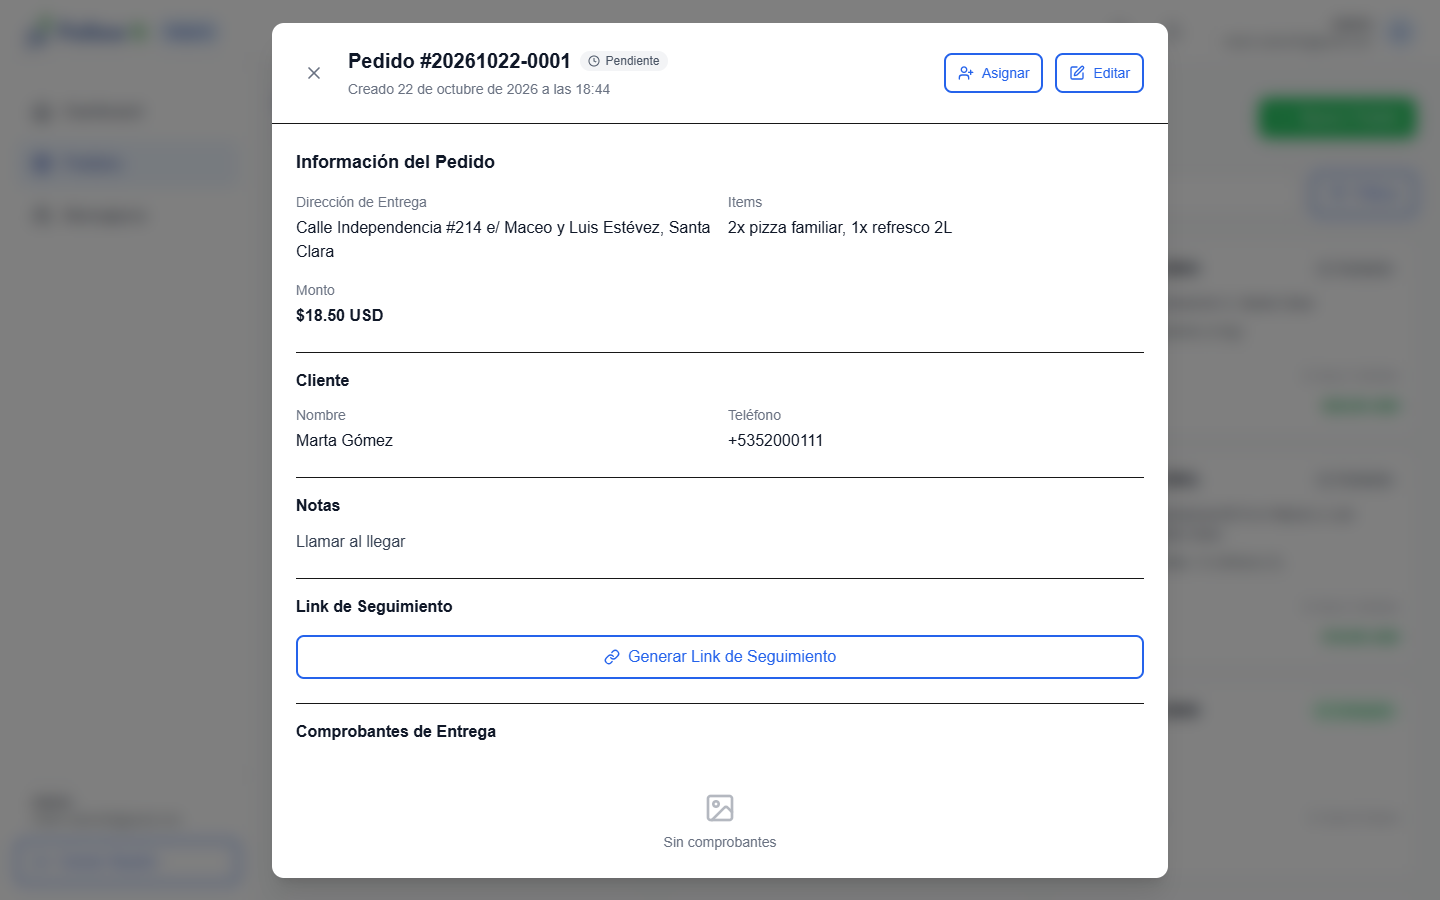
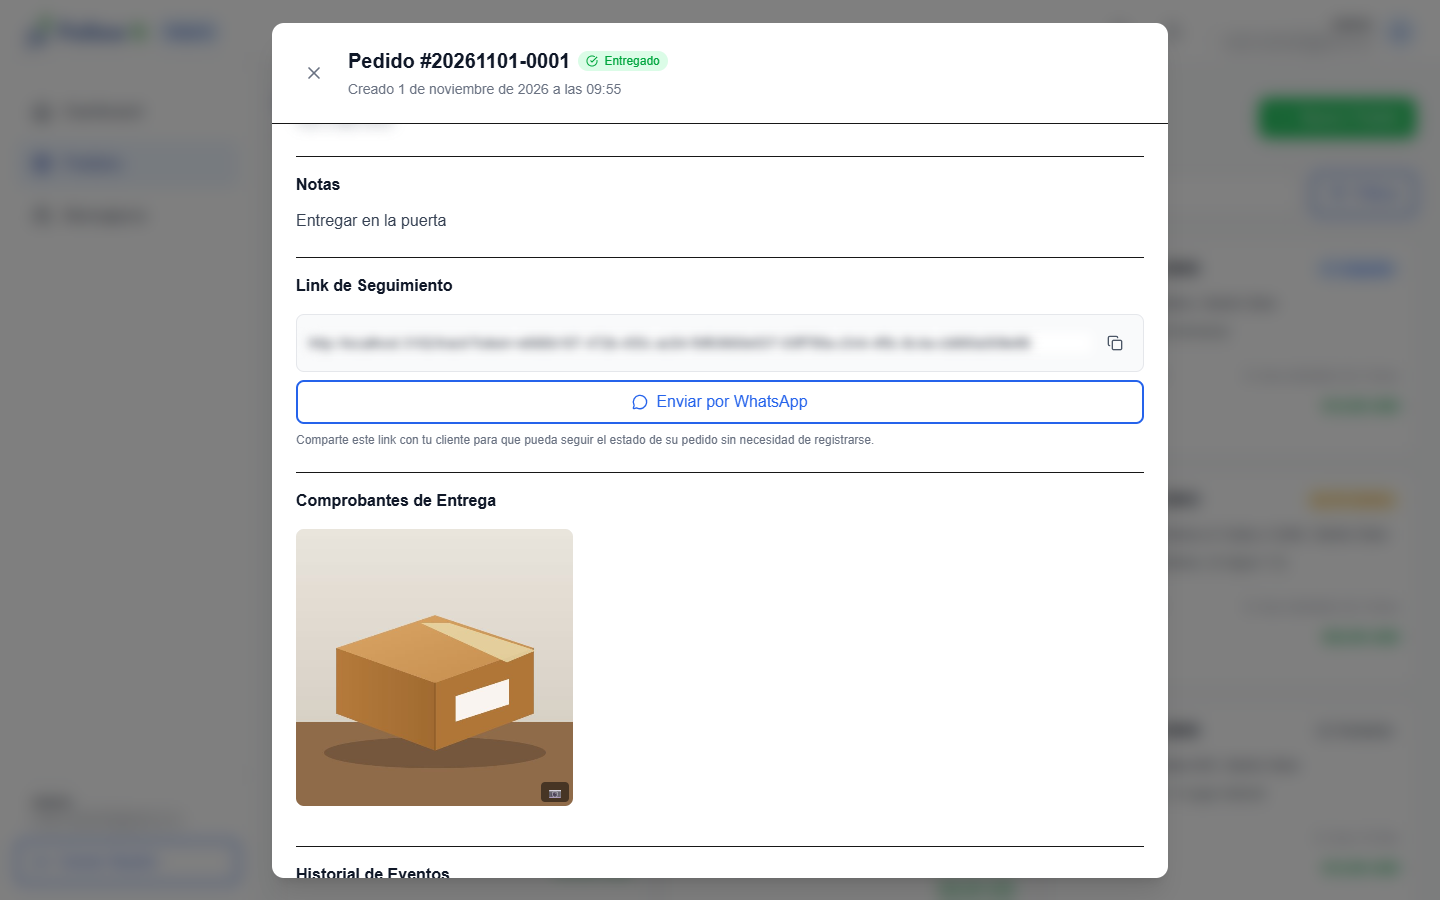
Add real screenshots to the project pages and drop the misleading ones
- New screens from the demo accounts for Kshop, LensSpace, Turno Flash, Turnia, Follow It and Self Inspection (sample data removed afterwards)
- Follow It captures no longer show a personal email; Turnia login/home/dashboard (made-up figures) removed
- Gallery order and ES/EN captions updated to match

diff --git a/src/content/projects.es.ts b/src/content/projects.es.ts
@@ -91,11 +91,13 @@ export const PROJECTS_ES: Project[] = [
       "kshop",
       [
         ["landing", "Página de Kshop para abrir una tienda"],
+        ["pricing", "Planes Caja, Base y Pro, con pago en efectivo y sin tarjeta"],
         ["home", "Portada de una tienda con el tema Kshop"],
         ["product", "Ficha con tallas, colores, oferta y precio en otra moneda"],
         ["theme-dark", "La misma tienda con el tema Oscuro"],
         ["theme-warm", "La misma tienda con el tema Cálido"],
         ["admin-home", "Inicio del panel: ventas de hoy, por cobrar, pedidos por confirmar y poco stock"],
+        ["finance", "Finanzas: vendido, cobrado, margen, gastos, ganancia neta y cierre del día"],
         ["product-editor", "Variantes con precio, costo, margen y calculadora de precio"],
         ["order-detail", "Un pedido con oferta aplicada, envío, pago y aviso por WhatsApp al cliente"],
         ["excel-import", "Importar y exportar el catálogo desde Excel"],
@@ -103,7 +105,7 @@ export const PROJECTS_ES: Project[] = [
         ["admin-appearance", "Apariencia: estilo, colores y vista previa en vivo"],
       ],
       [
-        ["pos", "Caja en el teléfono: ticket con producto y botón «Cobrar»"],
+        ["pos-sell", "Caja en el teléfono: ticket con varios productos y botón «Cobrar»"],
         ["home", "Tienda en el móvil"],
         ["product", "Producto añadido al carrito, con pedido por WhatsApp"],
         ["cart", "Carrito con cupón y envío gratis"],
@@ -193,6 +195,7 @@ export const PROJECTS_ES: Project[] = [
         ["dashboard", "Panel principal con el resumen del día"],
         ["sale", "Nueva venta con el total en CUP y USD"],
         ["orders", "Pedidos y cobros"],
+        ["order-detail", "Detalle de un pedido: saldo, producción y la cronología de cada acción"],
         ["prescriptions", "Historial de recetas"],
         ["production", "Producción con proveedores"],
         ["cash-register", "Caja y cierres"],
@@ -202,6 +205,7 @@ export const PROJECTS_ES: Project[] = [
       [
         ["dashboard", "Panel en el móvil"],
         ["orders", "Pedidos en el móvil"],
+        ["order-detail", "Detalle de un pedido en el móvil"],
         ["production", "Producción en el móvil"],
       ],
     ),
@@ -285,9 +289,14 @@ export const PROJECTS_ES: Project[] = [
       "turnoflash",
       [
         ["dashboard", "Resumen del día"],
-        ["public-booking", "Página pública de reservas"],
+        ["booking-categories", "Reserva pública: el cliente elige qué le interesa"],
+        ["booking-services", "Servicios de una categoría, con el anticipo que pides"],
         ["schedule-week", "Agenda semanal"],
+        ["deposits", "Turno con anticipo verificado y pagos parciales"],
+        ["refunds", "Cancelación con devolución del anticipo, motivo y quién la registró"],
         ["reminders", "Recordatorios por WhatsApp"],
+        ["win-back", "Recuperar clientes que hace tiempo no vienen, con un clic"],
+        ["reports", "Reportes: ingresos, turnos, valoraciones y servicios más pedidos"],
         ["trip-detail", "Salida con reservas de pasajes"],
         ["public-trips", "Página pública de salidas"],
         ["services", "Servicios y precios"],
@@ -296,6 +305,9 @@ export const PROJECTS_ES: Project[] = [
         ["dashboard", "Panel en el móvil"],
         ["schedule", "Agenda en el móvil"],
         ["public-booking", "Reserva pública en el móvil"],
+        ["booking-categories", "Categorías de reserva en el móvil"],
+        ["win-back", "Recuperar clientes en el móvil"],
+        ["reports", "Reportes en el móvil"],
       ],
     ),
     mockup: { kind: "mobile", accent: "#F2B705", background: "#17132A", text: "#FFFFFF" },
@@ -374,13 +386,18 @@ export const PROJECTS_ES: Project[] = [
     screenshots: buildScreenshots(
       "turnia",
       [
-        ["calendar", "Calendario de turnos"],
-        ["dashboard", "Panel de administración"],
-        ["statistics", "Estadísticas"],
+        ["calendar", "Calendario del mes con todos los turnos, turnos sin asignar y cobertura"],
+        ["requests", "Bandeja de solicitudes del gestor: ceder, intercambiar y tomar turnos abiertos"],
+        ["open-shifts", "Turnos abiertos a los que el personal puede postularse"],
+        ["availability", "Vacaciones, licencias y capacitación del equipo"],
+        ["conflict", "Aviso de conflicto al asignar a alguien que está de vacaciones"],
+        ["shift-types", "Tipos de turno con su letra, color y horario"],
+        ["daily-schedule", "Agenda del día en línea de tiempo"],
+        ["statistics", "Estadísticas de horas por persona y tipo de turno"],
       ],
       [
         ["calendar", "Turnos en el móvil"],
-        ["dashboard", "Panel en el móvil"],
+        ["requests", "Solicitudes de cambio de turno en el móvil"],
       ],
     ),
     mockup: { kind: "dashboard", accent: "#5B21B6", background: "#EFEAFB", text: "#17132A" },
@@ -447,12 +464,20 @@ export const PROJECTS_ES: Project[] = [
     ],
     result: null,
     technologies: ["Next.js", "Supabase", "Capacitor"],
-    cover: null,
+    cover: "/sites/followit-dashboard.png",
     screenshots: buildScreenshots(
       "followit",
-      [],
       [
-        ["orders", "Pedidos en el móvil"],
+        ["dashboard", "Resumen del día y pedidos que requieren atención"],
+        ["map", "Mensajeros en tiempo real sobre el mapa"],
+        ["orders", "Lista de pedidos en distintos estados"],
+        ["order-detail", "Pedido entregado con enlace de seguimiento y foto de comprobante"],
+        ["assign", "Asignar un pedido a un mensajero"],
+      ],
+      [
+        ["tracking", "Seguimiento del cliente con estado y mensajero en el mapa, sin registrarse"],
+        ["courier", "App del mensajero: marcar entregado, fallido o tomar la foto"],
+        ["orders", "Pedidos en el móvil del negocio"],
       ],
     ),
     mockup: { kind: "mobile", accent: "#F2B705", background: "#5B21B6", text: "#FFFFFF" },
@@ -606,15 +631,17 @@ export const PROJECTS_ES: Project[] = [
       "selfinspection",
       [
         ["evaluations", "Evaluaciones y ranking de inspectores"],
+        ["ranking", "Ranking de inspectores con puntuación y calificación"],
+        ["headers", "Editor de checklists a medida: encabezados y preguntas por tipo de inspección"],
         ["inspections", "Listado de inspecciones con filtros"],
-        ["home", "Inicio con el resumen de una inspección"],
         ["types", "Tipos de inspección configurables"],
         ["users", "Gestión del equipo por rol"],
       ],
       [
         ["inspections", "Inspecciones en el móvil"],
         ["evaluations", "Evaluaciones en el móvil"],
-        ["home", "Inicio en el móvil"],
+        ["ranking", "Ranking de inspectores en el móvil"],
+        ["create", "Formulario de nueva inspección en el móvil"],
       ],
     ),
     mockup: { kind: "mobile", accent: "#F2B705", background: "#EFEAFB", text: "#17132A" },

diff --git a/src/content/projects.en.ts b/src/content/projects.en.ts
@@ -79,17 +79,19 @@ export const PROJECTS_EN_COPY: Record<string, ProjectCopy> = {
     result: null,
     alts: [
       "Kshop page to open a store",
+      "Caja, Base and Pro plans, paid in cash with no card",
       "A store's home page with the Kshop theme",
       "Product page with sizes, colors, an offer and the price in another currency",
       "The same store with the Dark theme",
       "The same store with the Warm theme",
       "Dashboard home: today's sales, pending payments, orders to confirm and low stock",
+      "Finance: sold, collected, margin, expenses, net profit and the day close",
       "Variants with price, cost, margin and the price calculator",
       "An order with an offer applied, shipping, payment and a WhatsApp notice to the customer",
       "Importing and exporting the catalog from Excel",
       "WhatsApp notices for each order status, with editable text",
       "Appearance: style, colors and live preview",
-      "Register on the phone: ticket with a product and the \"Charge\" button",
+      "Register on the phone: ticket with several products and the \"Charge\" button",
       "Store on mobile",
       "Product added to the cart, with a WhatsApp order",
       "Cart with a coupon and free shipping",
@@ -171,6 +173,7 @@ export const PROJECTS_EN_COPY: Record<string, ProjectCopy> = {
       "Main dashboard with the day's summary",
       "New sale with the total in CUP and USD",
       "Orders and payments",
+      "Order detail: balance, production and the timeline of every action",
       "Prescription history",
       "Production with suppliers",
       "Cash register and closings",
@@ -178,6 +181,7 @@ export const PROJECTS_EN_COPY: Record<string, ProjectCopy> = {
       "Customer records",
       "Dashboard on mobile",
       "Orders on mobile",
+      "Order detail on mobile",
       "Production on mobile",
     ],
   },
@@ -253,15 +257,23 @@ export const PROJECTS_EN_COPY: Record<string, ProjectCopy> = {
     result: null,
     alts: [
       "Summary of the day",
-      "Public booking page",
+      "Public booking: customers choose what they are interested in",
+      "Services in a category, with the deposit you ask for",
       "Weekly schedule",
+      "Appointment with a verified deposit and partial payments",
+      "Cancellation with a refunded deposit, the reason and who logged it",
       "WhatsApp reminders",
+      "Win back customers who haven't come in a while, in one click",
+      "Reports: revenue, appointments, ratings and most requested services",
       "Departure with trip bookings",
       "Public departures page",
       "Services and prices",
       "Dashboard on mobile",
       "Schedule on mobile",
       "Public booking on mobile",
+      "Booking categories on mobile",
+      "Win-back on mobile",
+      "Reports on mobile",
     ],
   },
   turnia: {
@@ -332,11 +344,16 @@ export const PROJECTS_EN_COPY: Record<string, ProjectCopy> = {
     ],
     result: null,
     alts: [
-      "Shift calendar",
-      "Administration dashboard",
-      "Statistics",
+      "Month calendar with every shift, open shifts and coverage",
+      "Manager request inbox: give up, swap and take open shifts",
+      "Open shifts staff can apply for",
+      "Team vacations, leave and training",
+      "Conflict warning when assigning someone on vacation",
+      "Shift types with their letter, color and hours",
+      "The day's schedule on a timeline",
+      "Hours statistics per person and shift type",
       "Shifts on mobile",
-      "Dashboard on mobile",
+      "Shift change requests on mobile",
     ],
   },
   "follow-it": {
@@ -399,7 +416,14 @@ export const PROJECTS_EN_COPY: Record<string, ProjectCopy> = {
     ],
     result: null,
     alts: [
-      "Orders on mobile",
+      "Daily summary and orders needing attention",
+      "Couriers live on the map",
+      "Orders in different states",
+      "Delivered order with tracking link and proof photo",
+      "Assigning an order to a courier",
+      "Customer tracking with status and courier on the map, no sign-up",
+      "Courier app: mark delivered, failed or take the photo",
+      "Orders on the business's phone",
     ],
   },
   invoxa: {
@@ -535,13 +559,15 @@ export const PROJECTS_EN_COPY: Record<string, ProjectCopy> = {
     result: null,
     alts: [
       "Evaluations and inspector ranking",
+      "Inspector ranking with score and rating",
+      "Tailor-made checklist editor: headings and questions per inspection type",
       "Inspection list with filters",
-      "Home with an inspection summary",
       "Configurable inspection types",
       "Team management by role",
       "Inspections on mobile",
       "Evaluations on mobile",
-      "Home on mobile",
+      "Inspector ranking on mobile",
+      "New inspection form on mobile",
     ],
   },
 };
